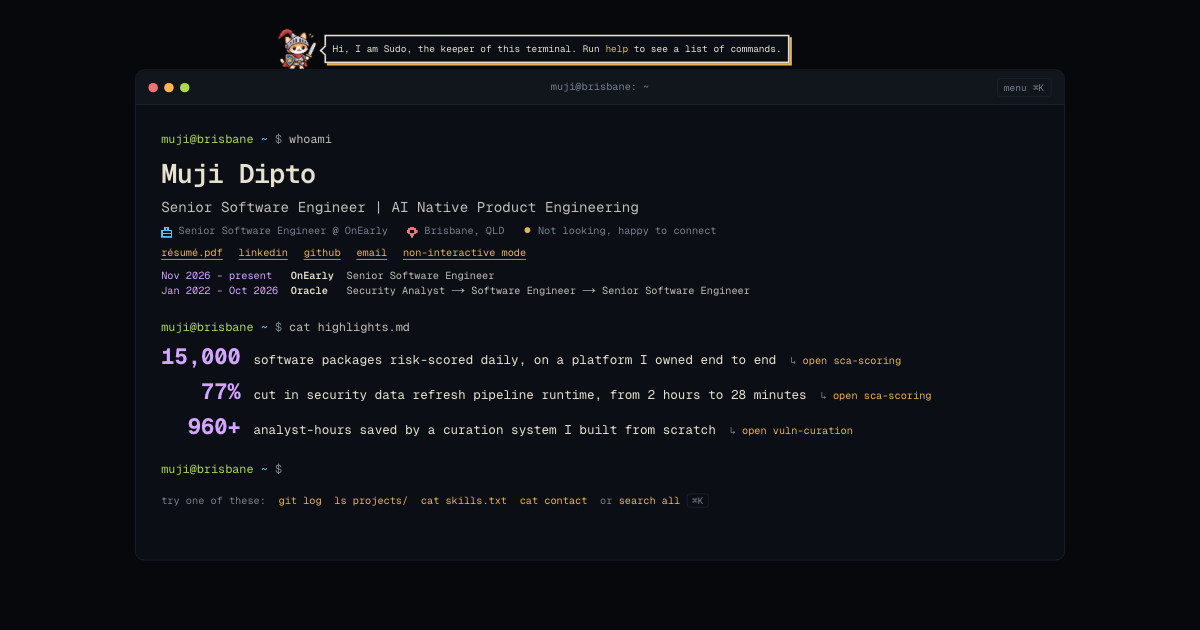
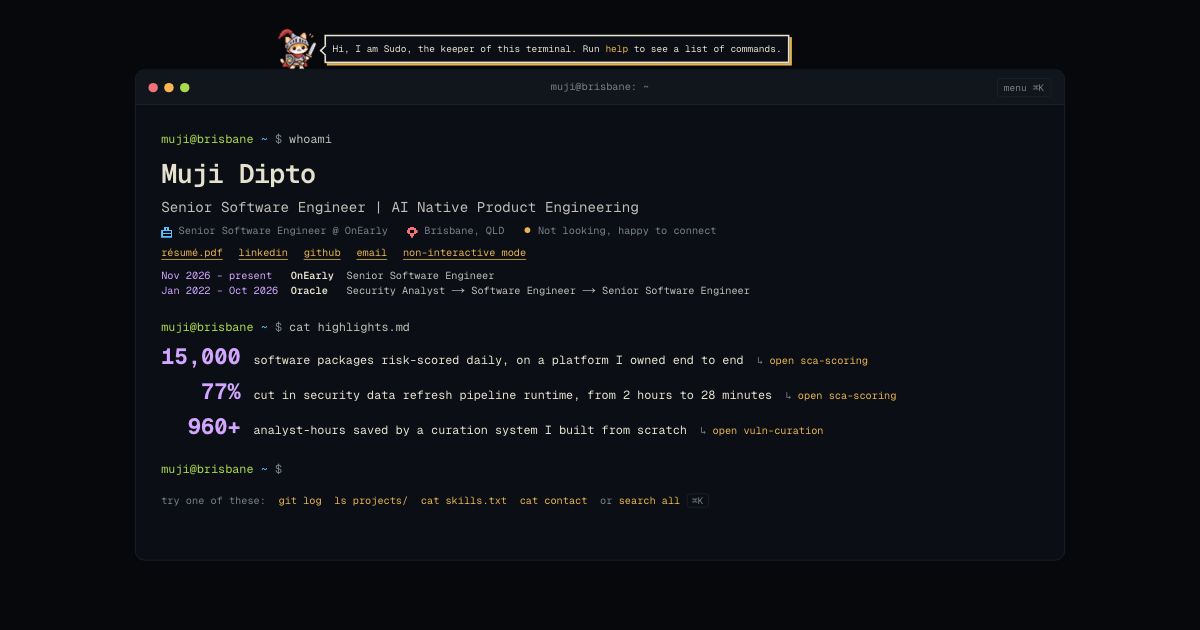
Set body text to 15px
The type scale was built on a 15px base, but nothing applied it, so
body text fell back to the browser's 16px. body now uses --text-base.
Text fields stay at 16px so iPhone Safari does not zoom in when they are
tapped: the prompt already did, and the palette search now does too.
The first screen still fits at 1366x768, and the link-preview card is
regenerated.

Changed region(s): [[0.2158, 0.5429, 0.7708, 0.6333], [0.2158, 0.6635, 0.7092, 0.6937]]

diff --git a/components/terminal/Palette.tsx b/components/terminal/Palette.tsx
@@ -128,7 +128,8 @@ export function Palette({ onRun }: { onRun: RunCommand }) {
               }}
               onKeyDown={onKeyDown}
               id="palette-search"
-              className="text-fg-strong placeholder:text-muted caret-accent w-full bg-transparent"
+              // 16px, like the prompt, stops iOS zooming into the field.
+              className="text-fg-strong placeholder:text-muted caret-accent w-full bg-transparent text-[16px]"
             />
           </div>
           <ul

diff --git a/app/globals.css b/app/globals.css
@@ -77,6 +77,8 @@
 body {
   background: var(--page);
   color: var(--fg);
+  /* The scale's base (above); without it, text falls back to the browser's 16px. */
+  font-size: var(--text-base);
 }
 
 :focus-visible {

diff --git a/CLAUDE.md b/CLAUDE.md
@@ -76,7 +76,7 @@ A real terminal session in one fixed-size window, not a long page.
 - `neofetch` (in `help`) prints a system-info card: Sudo as the logo, the career as specs, every value from `lib/content.ts`. Hidden easter eggs, kept out of `help` and the hints: `ls -a` reveals `.sudo-secrets`, a riddle leading to `sudo hire muji`; `exit`, `vim` and `rm` get in-character answers (Sudo jumps at `rm`). Clicking Sudo floats pixel hearts (none with reduced motion) and shows a tip.
 - Commands live in `lib/terminal.ts` (pure functions, tested in `__tests__/terminal.test.ts`). Approved microcopy: the title line "Senior Software Engineer | AI Native Product Engineering" (my own positioning, replacing the résumé's focus line), the status "Not looking, happy to connect", the `cat contact` pitch in `lib/content.ts` (`contactPitch`), the help list, `command not found: x. Try help`, `cat: x: No such file or directory`, `open: no such project: x. Try ls projects/`, the mascot's name, Sudo, and its bubble "Hi, I am Sudo, the keeper of this terminal. Run help to see a list of commands.". One hidden easter egg, `sudo hire muji`, prints contact details; it is not in `help` or the hints.
 - Progressive enhancement: without JavaScript the whole session is printed as HTML, so search engines, screen readers and no-JS visitors get all content. New output is announced to screen readers. No keyboard traps.
-- Typography: monospace throughout, Geist Mono (from `content/design.md`).
+- Typography: monospace throughout, Geist Mono (from `content/design.md`). Body text is 15px (`--text-base`, Muji's choice 2026-11-03); text fields (the prompt and the palette search) stay 16px so iPhone Safari does not zoom in when they are tapped.
 - Colour: Ayu dark by default, Ayu Light with `theme light` (no button; remembered per visitor). Ayu Light colours are darkened where needed to pass WCAG AA and marked as adjusted. Colours with meaning: prompt user green, path blue, links and the cursor Ayu yellow, metrics as number literals in purple. Tokens live in `app/globals.css`; `__tests__/theme-contrast.test.ts` must keep passing.
 - Domain: `dipto.dev`, live since 2026-11-02. Vercel serves `www.dipto.dev` as the primary domain and redirects the apex to it; `muji-dipto.vercel.app` still serves the site, so every page sets a canonical URL. The address comes from one setting, `lib/site.ts`.
 - `content/design.md` is another developer's design guide, kept locally. Its font (Geist Mono) is used by my choice; never copy its copy, facts, layout or assets, and never commit it.
